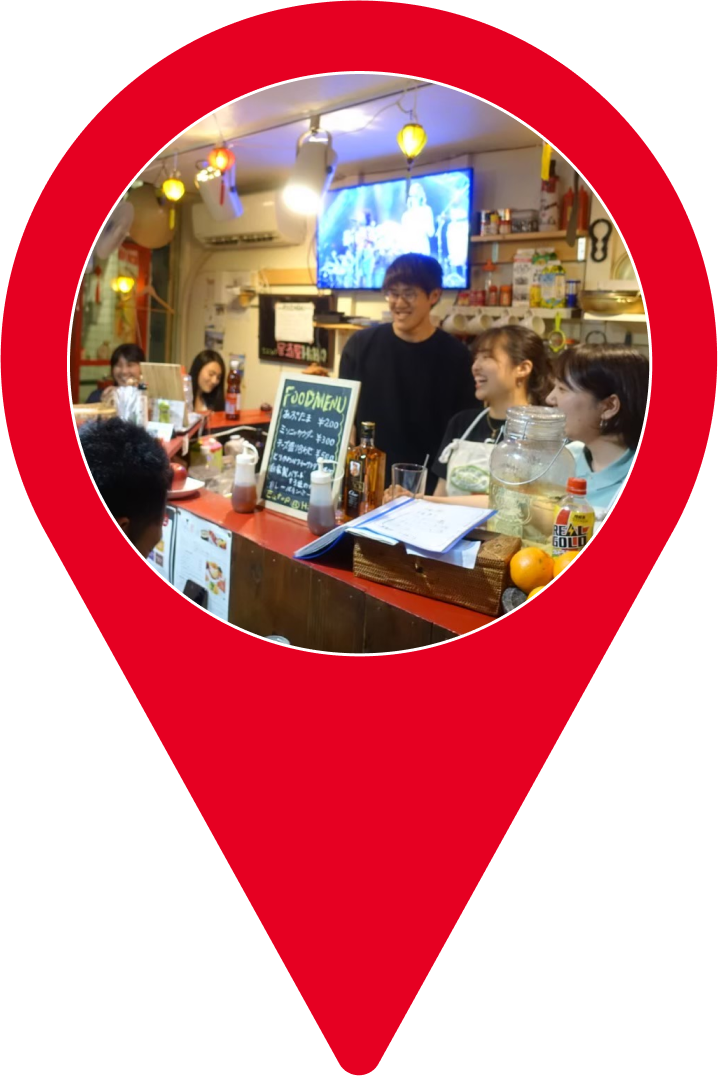
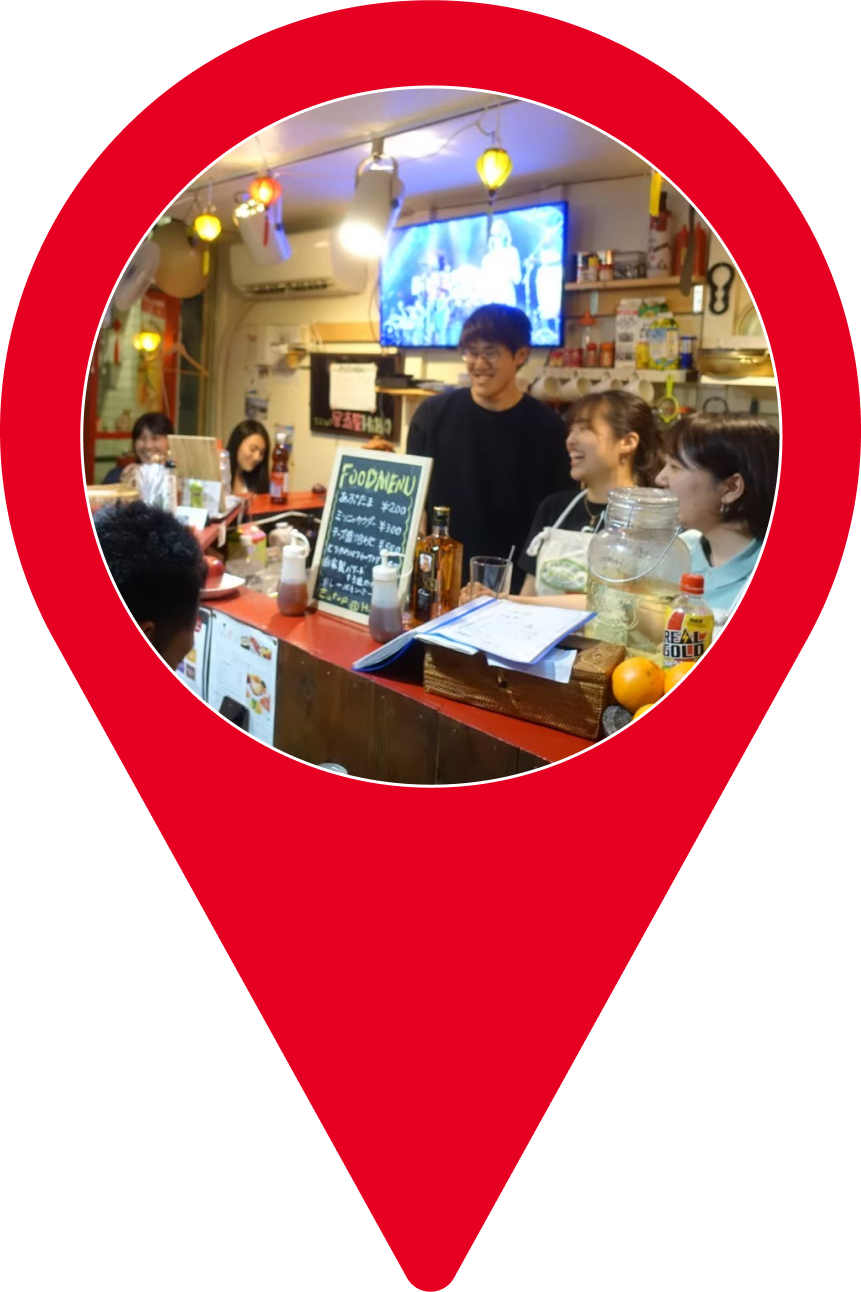
modify pins

diff --git a/src/views/Logs.vue b/src/views/Logs.vue
@@ -24,7 +24,7 @@ export default {
     return {
       pinProps: [
         {imgSrc: require('../assets/images/logs/pins/gurugura.png'), position: [30, 50], imgAlt: '糸島グルメグランプリ', link: ''},
-        {imgSrc: require('../assets/images/logs/pins/hiho.png'), position: [50, 50], imgAlt: 'ハイホー', link: ''},
+        {imgSrc: require('../assets/images/logs/pins/hiho.png'), position: [20, 20], imgAlt: 'ハイホー', link: ''},
         {imgSrc: require('../assets/images/logs/pins/imari.png'), position: [50, 50], imgAlt: '伊万里田植え体験', link: ''},
         {imgSrc: require('../assets/images/logs/pins/kyudaisai.png'), position: [50, 50], imgAlt: '九大祭', link: ''},
         {imgSrc: require('../assets/images/logs/pins/pietro.png'), position: [50, 80], imgAlt: 'ピエトロ', link: ''},

diff --git a/src/components/Pin.vue b/src/components/Pin.vue
@@ -27,7 +27,7 @@ export default {
 
 <style scoped>
 div img {
-  height: 92px;
+  height: 50px;
   position: absolute;
   z-index: 2;
   top: var(--y);
